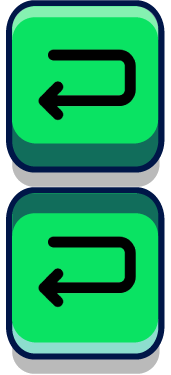
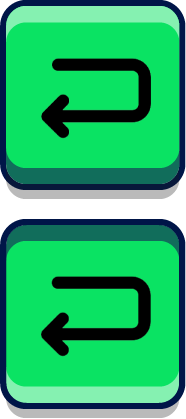
update the back button

diff --git a/src/games/game_map/scenes/BootScene.js b/src/games/game_map/scenes/BootScene.js
@@ -9,7 +9,7 @@ export default class BootScene extends Scene {
   preload () {
     this.load.image('bg_title', require('../assets/images/Game_bg.png'))
     this.load.spritesheet('hintBtn', require('../assets/images/buttons/btn_target.png'), { frameWidth: 173, frameHeight: 187 })
-    this.load.spritesheet('backBtn', require('../assets/images/buttons/back_btn.png'), { frameWidth: 171, frameHeight: 187 })
+    this.load.spritesheet('backBtn', require('../assets/images/buttons/back_btn.png'), { frameWidth: 186, frameHeight: 209 })
     this.load.spritesheet('speakerBtn', require('../assets/images/buttons/btn_speaker.png'),{ frameWidth: 186, frameHeight: 209 })
     this.load.spritesheet('offSpeakerBtn', require('../assets/images/buttons/btn_speaker_off.png'), { frameWidth: 186, frameHeight: 209  })
   }

diff --git a/src/assets/scss/style.scss b/src/assets/scss/style.scss
@@ -615,7 +615,6 @@ footer{
       > .inner{
         bottom: 0;
         height: 100%;
-        max-height: -webkit-fill-available;
         position: absolute;
         top: 0;
         width: 100%;
